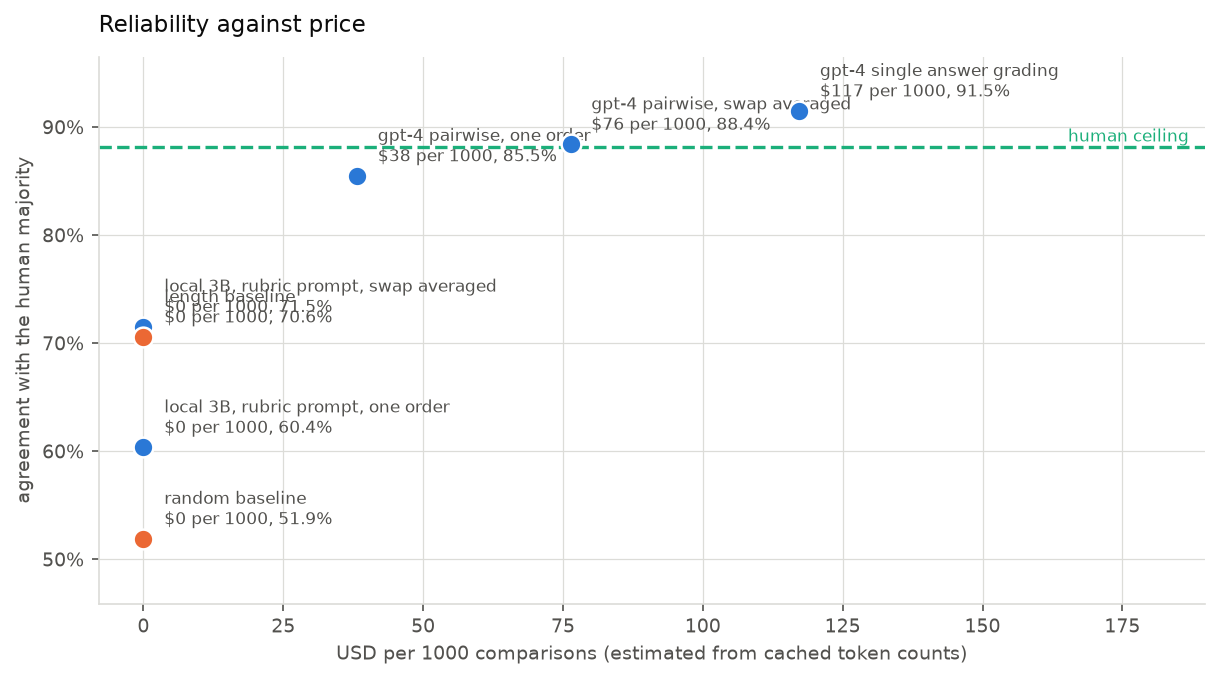
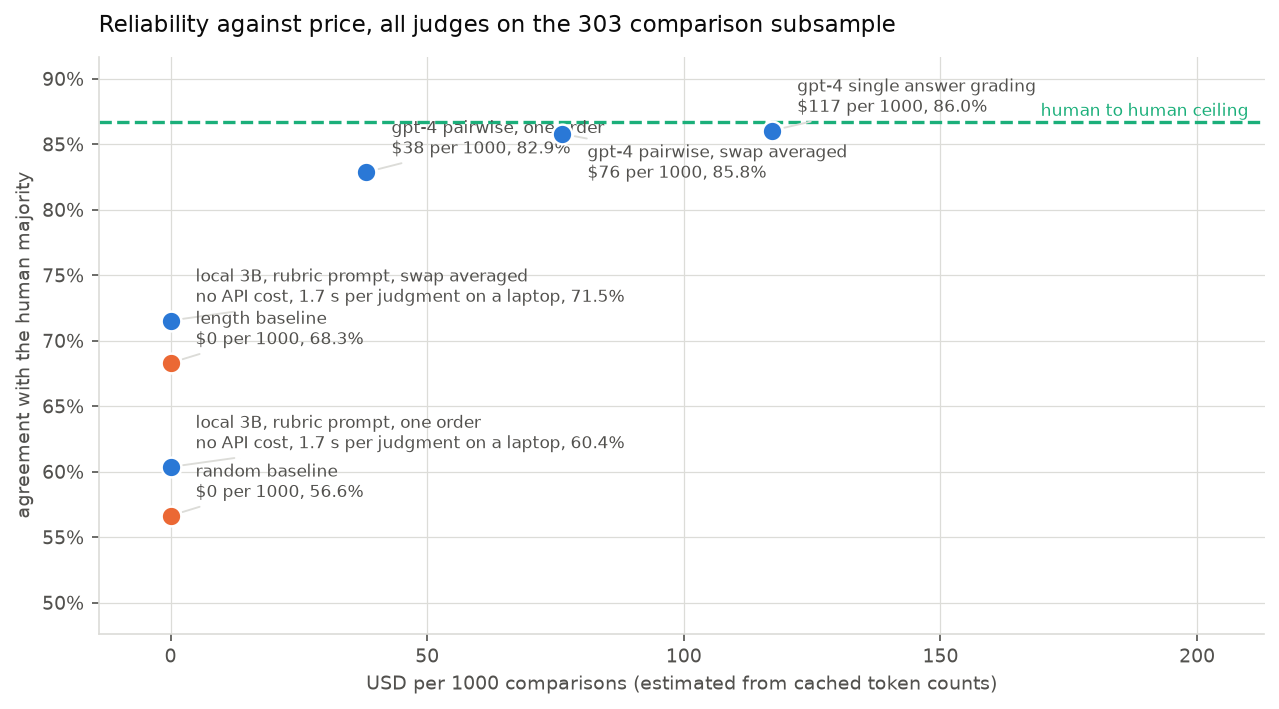
Fix four wrong claims found in a caption and claim audit
- README headline said swap averaging recovered 'most of the gap' to the human
  ceiling. It recovers 2.9 points against a 2.7 point gap, so it closes it. The
  phrase is now derived from the numbers instead of asserted.
- LIMITATIONS cited 563 and 586 self preference comparisons. Both were stale
  after the cache context fix; the values are 578 and 594.
- LIMITATIONS called 752 'annotator comparisons'. 752 is the number of leave one
  out scorings, drawn from 249 comparisons.
- DECISIONS said the rerun measurement uses 800 comparisons. 800 is the whole
  file; 678 overlap the human labels and are what the number is computed on.

The cost figure plotted the local judge (303 comparison subsample) against GPT-4
(1814) on one accuracy axis. It now puts every point on the subsample both were
measured on and says so in the title, and labels carry leader lines so a nudged
label cannot be read against the wrong point.

07_report.py now fails the build if a number asserted in LIMITATIONS.md or
DECISIONS.md stops matching metrics.json.

diff --git a/07_report.py b/07_report.py
@@ -64,6 +64,16 @@ def build(m):
     verb_human = m["verbosity"]["human majority"]
     verb_gpt4 = m["verbosity"]["gpt-4 pairwise, one order"]
 
+    # The one comparative claim in the headline, derived rather than asserted, so
+    # it cannot survive the numbers moving underneath it.
+    ceiling_gap = ceiling["accuracy"] - gpt4["accuracy"]
+    recovered = swap_mitigation["delta"]
+    gap_phrase = (
+        "which closes the gap to that ceiling"
+        if recovered >= ceiling_gap
+        else f"which closes {recovered / ceiling_gap:.0%} of the {num(ceiling_gap)} point gap to that ceiling"
+    )
+
     local_rows = [r for r in no_ties if r["label"].startswith("local 3B")]
     has_local = bool(local_rows)
     local_note = (
@@ -82,8 +92,7 @@ pair of answers agrees with the human majority {pct(gpt4['accuracy'])} of the ti
 against a human ceiling of {pct(ceiling['accuracy'])} and a length only baseline that
 reaches {pct(length['accuracy'])}. Reversing the order the two answers are shown in
 flips the verdict on {pct(position['flip_rate'])} of comparisons, and swap averaging
-recovers {num(swap_mitigation['delta'])} points of agreement, which is most of the gap
-to the ceiling.**
+recovers {num(swap_mitigation['delta'])} points of agreement, {gap_phrase}.**
 
 The judge is good. It is also not better than a careful human, it is only
 {num(gpt4['accuracy'] - length['accuracy'])} points better than a rule that reads none
@@ -273,8 +282,9 @@ surprise: the rubric is the prompt that tells the judge in as many words not to
 reward length or position, and it is the worst of the three. Scaffolding that
 sounds like it should help is exactly the kind of thing that has to be measured.
 
-For scale, on these same {data['local_judge_subsample']} comparisons GPT-4 scores
-{num(local_gpt4['accuracy'])} and the length rule scores {num(local_length['accuracy'])}.
+For scale, on this same pool of {data['local_judge_subsample']} comparisons GPT-4
+scores {num(local_gpt4['accuracy'])} (n={local_gpt4['n']} after ties are excluded) and the
+length rule scores {num(local_length['accuracy'])} (n={local_length['n']}).
 Every prompt variant of the 3B judge sits at or below the length rule. What the
 local judge contributes is not accuracy, it is that it is cheap enough to run
 under every prompt variant, which is the experiment a team needs before trusting
@@ -322,6 +332,11 @@ much as with debiasing, which is fine as long as you know that is the trade.
 ## 7. Cost against reliability
 
 ![cost against reliability](output/figures/fig6_cost_reliability.png)
+
+Every point in that figure is measured on one pool of comparisons, the subsample
+the local judge ran on, so the accuracies there are not the full set accuracies
+in the table above. Mixing the two pools on one axis would compare different
+samples as though they were the same one.
 
 | judge | mean input tokens | mean output tokens | USD per 1000 judgments | median latency |
 | --- | --- | --- | --- | --- |
@@ -434,9 +449,47 @@ carries its value as text.
     return "".join(parts)
 
 
+def check_static_docs(m):
+    """Every number a hand written document asserts, checked against metrics.json.
+
+    README.md is generated so it cannot drift. LIMITATIONS.md and DECISIONS.md
+    are written by hand, and a hand written number that quietly stops matching
+    the data is the most common way an honest repo starts lying. Anything
+    asserted there is registered here and the build fails if it moves.
+    """
+    data = m["dataset"]
+    nt = {r["label"]: r for r in m["agreement"]["no_ties"]}
+    ceiling = nt["human ceiling, one annotator vs the majority of the others"]
+    self_pref = m["self_preference"]["gpt-4 judging gpt-4 responses"]
+    control = m["self_preference"]["gpt-4 judging claude-v1 responses (control)"]
+
+    claims = [
+        ("DECISIONS.md", f"{data['human_votes']} individual votes", "human votes"),
+        ("DECISIONS.md", f"over {data['comparisons']} distinct comparisons", "comparisons"),
+        ("DECISIONS.md", f"{m['rerun_stability']['n_judgments'] // 2} of those are comparisons", "reruns"),
+        ("DECISIONS.md", f"{m['rerun_stability']['n_judgments']} repeated judgments", "repeated judgments"),
+        ("DECISIONS.md", f"turn drew {data['local_judge_subsample']} of them", "local subsample"),
+        ("LIMITATIONS.md", f"measured on {self_pref['n']} comparisons", "self preference n"),
+        ("LIMITATIONS.md", f"claude-v1 responses on {control['n']}", "self preference control n"),
+        ("LIMITATIONS.md", f"rests on {ceiling['n_comparisons']} comparisons", "leave one out comparisons"),
+        ("LIMITATIONS.md", f"supply {ceiling['n']} annotator against", "leave one out scorings"),
+        ("LIMITATIONS.md", f"two or more annotators, {data['comparisons_with_2plus_annotators']} of", "2+ annotators"),
+        ("LIMITATIONS.md", f"{data['local_judge_subsample']} comparisons, seeded", "local subsample"),
+    ]
+    stale = []
+    for filename, phrase, what in claims:
+        with open(os.path.join(HERE, filename), encoding="utf-8") as fh:
+            body = " ".join(fh.read().split())
+        if " ".join(phrase.split()) not in body:
+            stale.append(f"{filename}: {what} no longer matches the data, expected the phrase {phrase!r}")
+    if stale:
+        raise SystemExit("stale hand written claims:\n  " + "\n  ".join(stale))
+
+
 def main():
     with open(os.path.join(HERE, "output", "metrics.json"), encoding="utf-8") as fh:
         metrics = json.load(fh)
+    check_static_docs(metrics)
     text = build(metrics)
     if "—" in text or "–" in text:
         raise SystemExit("house rule: no dashes of that kind in the README")

diff --git a/06_figures.py b/06_figures.py
@@ -212,7 +212,18 @@ def fig_mitigations(m):
 
 
 def fig_cost(m):
-    acc = {r["label"]: r for r in m["agreement"]["no_ties"] if r["n"] > 0}
+    """Reliability against price, with every point on ONE comparison pool.
+
+    The local judge only ran on a subsample. Plotting its accuracy on the same
+    axis as GPT-4's full set accuracy would compare two different samples as if
+    they were one, so when the local judge is present the whole figure switches
+    to the subsample both were measured on, and the title says so.
+    """
+    on_subsample = any(
+        r["label"].startswith("local 3B") for r in m["agreement"]["no_ties"] if r["n"] > 0
+    )
+    source = m["agreement_on_local_subsample"] if on_subsample else m["agreement"]["no_ties"]
+    acc = {r["label"]: r for r in source if r["n"] > 0}
     cost_by_judge = {c["judge_id"]: c for c in m["cost"]}
     points = []
     mapping = {
@@ -232,25 +243,49 @@ def fig_cost(m):
     if not points:
         return
 
-    fig, ax = plt.subplots(figsize=(8.2, 4.6))
-    for usd, a, label in points:
+    local_speed = cost_by_judge.get("qwen2.5-3b-4bit-local", {}).get("median_latency_s")
+
+    fig, ax = plt.subplots(figsize=(8.6, 4.8))
+    # Nudge labels apart when two points nearly coincide, which they do at zero.
+    placed = []
+    for usd, a, label in sorted(points, key=lambda p: (p[0], -p[1])):
         colour = BASELINE if "baseline" in label else JUDGE
         ax.scatter([usd], [a], s=90, color=colour, zorder=4, edgecolor="white", linewidth=1.2)
-        ax.annotate(f"{label}\n${usd:.0f} per 1000, {a:.1%}", (usd, a), textcoords="offset points",
-                    xytext=(10, 7), fontsize=8, color=MUTED)
-    ceiling = next((r for r in m["agreement"]["no_ties"] if r["label"].startswith("human ceiling, one")), None)
+        price = f"${usd:.0f} per 1000"
+        if usd == 0 and label.startswith("local") and local_speed:
+            price = f"no API cost, {local_speed:.1f} s per judgment on a laptop"
+        offset = 9
+        while any(abs(usd - u) < 45 and abs((a + offset / 400) - p) < 0.030 for u, p in placed):
+            offset -= 15
+        placed.append((usd, a + offset / 400))
+        # A leader line, so a nudged label can never be read as belonging to the
+        # neighbouring point. Wrong attribution is the expensive kind of mistake.
+        ax.annotate(f"{label}\n{price}, {a:.1%}", (usd, a), textcoords="offset points",
+                    xytext=(12, offset), fontsize=8, color=MUTED,
+                    arrowprops=dict(arrowstyle="-", color=GRID, linewidth=0.9,
+                                    shrinkA=0, shrinkB=6))
+    # Whichever human ceiling was computed on this pool. On the subsample only
+    # the annotator against annotator one has enough votes to exist.
+    ceiling = next((r for r in source if r["label"].startswith("human ceiling")), None) or next(
+        (r for r in source if r["label"].startswith("human")), None
+    )
     if ceiling:
         ax.axhline(ceiling["accuracy"], color=HUMAN, linewidth=1.6, linestyle="--")
-        ax.text(0.995, ceiling["accuracy"] + 0.005, "human ceiling  ", color=HUMAN, fontsize=8,
+        ax.text(0.995, ceiling["accuracy"] + 0.005, ceiling["label"] + "  ", color=HUMAN, fontsize=8,
                 ha="right", transform=ax.get_yaxis_transform(which="grid"))
     ax.set_xlabel("USD per 1000 comparisons (estimated from cached token counts)")
     as_percent(ax.yaxis)
     ax.set_ylabel("agreement with the human majority")
-    ax.set_xlim(-8, max(p[0] for p in points) * 1.55 + 8)
-    ax.set_ylim(min(p[1] for p in points) - 0.06, max(max(p[1] for p in points), ceiling["accuracy"] if ceiling else 0) + 0.05)
+    ax.set_xlim(-14, max(p[0] for p in points) * 1.75 + 8)
+    ax.set_ylim(min(p[1] for p in points) - 0.09, max(max(p[1] for p in points), ceiling["accuracy"] if ceiling else 0) + 0.05)
     ax.grid(True, color=GRID, linewidth=0.6)
     ax.set_axisbelow(True)
-    ax.set_title("Reliability against price", loc="left", fontsize=11, color=INK, pad=12)
+    pool = (
+        f"all judges on the {m['dataset']['local_judge_subsample']} comparison subsample"
+        if on_subsample
+        else f"all {m['dataset']['comparisons']} comparisons"
+    )
+    ax.set_title(f"Reliability against price, {pool}", loc="left", fontsize=11, color=INK, pad=12)
     finish(fig, os.path.join(OUT, "fig6_cost_reliability.png"))
 
 

diff --git a/LIMITATIONS.md b/LIMITATIONS.md
@@ -30,14 +30,16 @@ that is genuine ambiguity and some is annotation error, and this data cannot tel
 them apart. 853 of 1814 comparisons have a single annotator, so their majority
 label is one person's opinion. Those comparisons still count toward judge
 agreement, which adds noise in a direction that penalises every judge equally.
-The ceiling is computed only on comparisons with two or more annotators, and the
-leave one out ceiling only on those with three or more, which is 752 annotator
-comparisons rather than 1814.
+The ceiling is computed only on comparisons with two or more annotators, 961 of
+them. The leave one out ceiling is narrower still: it needs three or more votes,
+so it rests on 249 comparisons, which between them supply 752 annotator against
+majority scorings. That is the ceiling the headline is measured against, and it
+is the thinnest number in the repo.
 
 ## Self preference is measured on one judge and one family
 
-The gap for GPT-4 judging GPT-4 responses is measured on 563 comparisons, and
-the control on claude-v1 responses on 586. That is enough to see the effect but
+The gap for GPT-4 judging GPT-4 responses is measured on 578 comparisons, and
+the control on claude-v1 responses on 594. That is enough to see the effect but
 not enough to characterise it, and it comes from one judge model, one response
 set and one point in time. It also cannot separate self preference from a real
 quality advantage that the human annotators underweighted, or from stylistic
@@ -56,7 +58,7 @@ judge you are actually shipping.
 
 ## The local judge is measured on a subsample
 
-300 comparisons, seeded and stratified by category and turn, out of 1814. Its
+303 comparisons, seeded and stratified by category and turn, out of 1814. Its
 intervals are correspondingly wide and its per model win rates rest on roughly a
 hundred comparisons each. The GPT-4 numbers on the same subsample are reported
 next to it, so the comparison between the two judges is like for like even though

diff --git a/DECISIONS.md b/DECISIONS.md
@@ -76,10 +76,11 @@ honest treatment: nobody knows the answer.
 ## The local judge runs on a seeded subsample, and only complete comparisons count
 
 A 3B judge under three templates, both orders, three samples and a padding
-condition is 12 calls per comparison. 300 comparisons, stratified by category and
-turn, is what fits in a few hours on a laptop. The measurement code drops any
-comparison the judge has not finished every condition on, so a partial run cannot
-bias the template comparison toward whichever template happened to run first.
+condition is 12 calls per comparison. A subsample stratified by category and
+turn drew 303 of them, which is what fits in a few hours on a laptop. The
+measurement code drops any comparison the judge has not finished every condition
+on, so a partial run cannot bias the template comparison toward whichever
+template happened to run first.
 
 ## The majority vote mitigation mixes one greedy sample with two sampled ones
 
@@ -97,11 +98,14 @@ estimated at 4 characters per token and every cached record carries
 per million tokens. The local judge is free at the point of use, so it is
 reported by wall clock instead.
 
-## The 800 duplicated GPT-4 rows are kept as a rerun measurement
+## The duplicated GPT-4 rows are kept as a rerun measurement
 
 The released pair file judges 800 comparisons twice, weeks apart, under an
-identical prompt. Sample 0 is the older run and is the one used everywhere else.
-The pair is used once, to measure how often GPT-4 disagrees with itself. That
+identical prompt. 678 of those are comparisons the humans also labelled, which
+is what the rerun measurement is computed on: 678 comparisons in two orders,
+1356 repeated judgments. Sample 0 is the older run and is the one used
+everywhere else, and the pair is used once, to measure how often GPT-4
+disagrees with itself. That
 number turned out to be the most useful denominator in the repo: it is what the
 position bias flip rate has to be compared against.
 

diff --git a/README.md b/README.md
@@ -5,8 +5,7 @@ pair of answers agrees with the human majority 85.5 percent of the time,
 against a human ceiling of 88.2 percent and a length only baseline that
 reaches 70.6 percent. Reversing the order the two answers are shown in
 flips the verdict on 16.1 percent of comparisons, and swap averaging
-recovers 2.9 points of agreement, which is most of the gap
-to the ceiling.**
+recovers 2.9 points of agreement, which closes the gap to that ceiling.**
 
 The judge is good. It is also not better than a careful human, it is only
 14.9 points better than a rule that reads none
@@ -188,8 +187,9 @@ surprise: the rubric is the prompt that tells the judge in as many words not to
 reward length or position, and it is the worst of the three. Scaffolding that
 sounds like it should help is exactly the kind of thing that has to be measured.
 
-For scale, on these same 303 comparisons GPT-4 scores
-82.9 and the length rule scores 68.3.
+For scale, on this same pool of 303 comparisons GPT-4
+scores 82.9 (n=216 after ties are excluded) and the
+length rule scores 68.3 (n=224).
 Every prompt variant of the 3B judge sits at or below the length rule. What the
 local judge contributes is not accuracy, it is that it is cheap enough to run
 under every prompt variant, which is the experiment a team needs before trusting
@@ -216,6 +216,11 @@ much as with debiasing, which is fine as long as you know that is the trade.
 ## 7. Cost against reliability
 
 ![cost against reliability](output/figures/fig6_cost_reliability.png)
+
+Every point in that figure is measured on one pool of comparisons, the subsample
+the local judge ran on, so the accuracies there are not the full set accuracies
+in the table above. Mixing the two pools on one axis would compare different
+samples as though they were the same one.
 
 | judge | mean input tokens | mean output tokens | USD per 1000 judgments | median latency |
 | --- | --- | --- | --- | --- |
